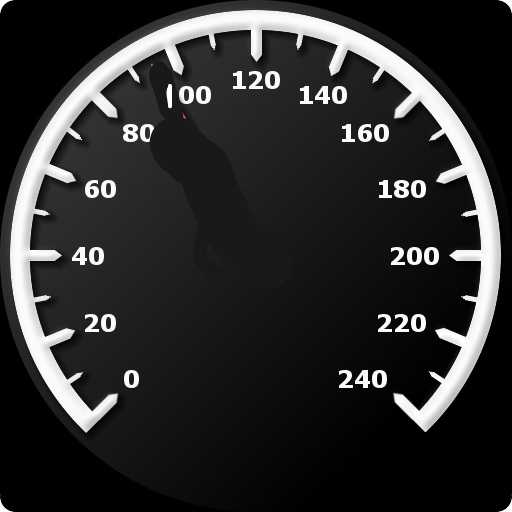
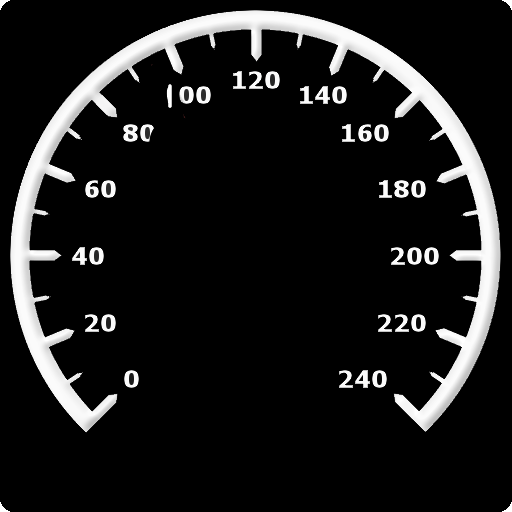
styleing

diff --git a/styles.css b/styles.css
@@ -34,7 +34,7 @@ body {
       left: 48px;
 			width: 210px;
 			transform-origin:right;
-			transform: rotate(100deg)
+			transform: rotate(50deg)
     }
 @-moz-keyframes spin {
 		    from { -moz-transform: rotate(0deg); }
